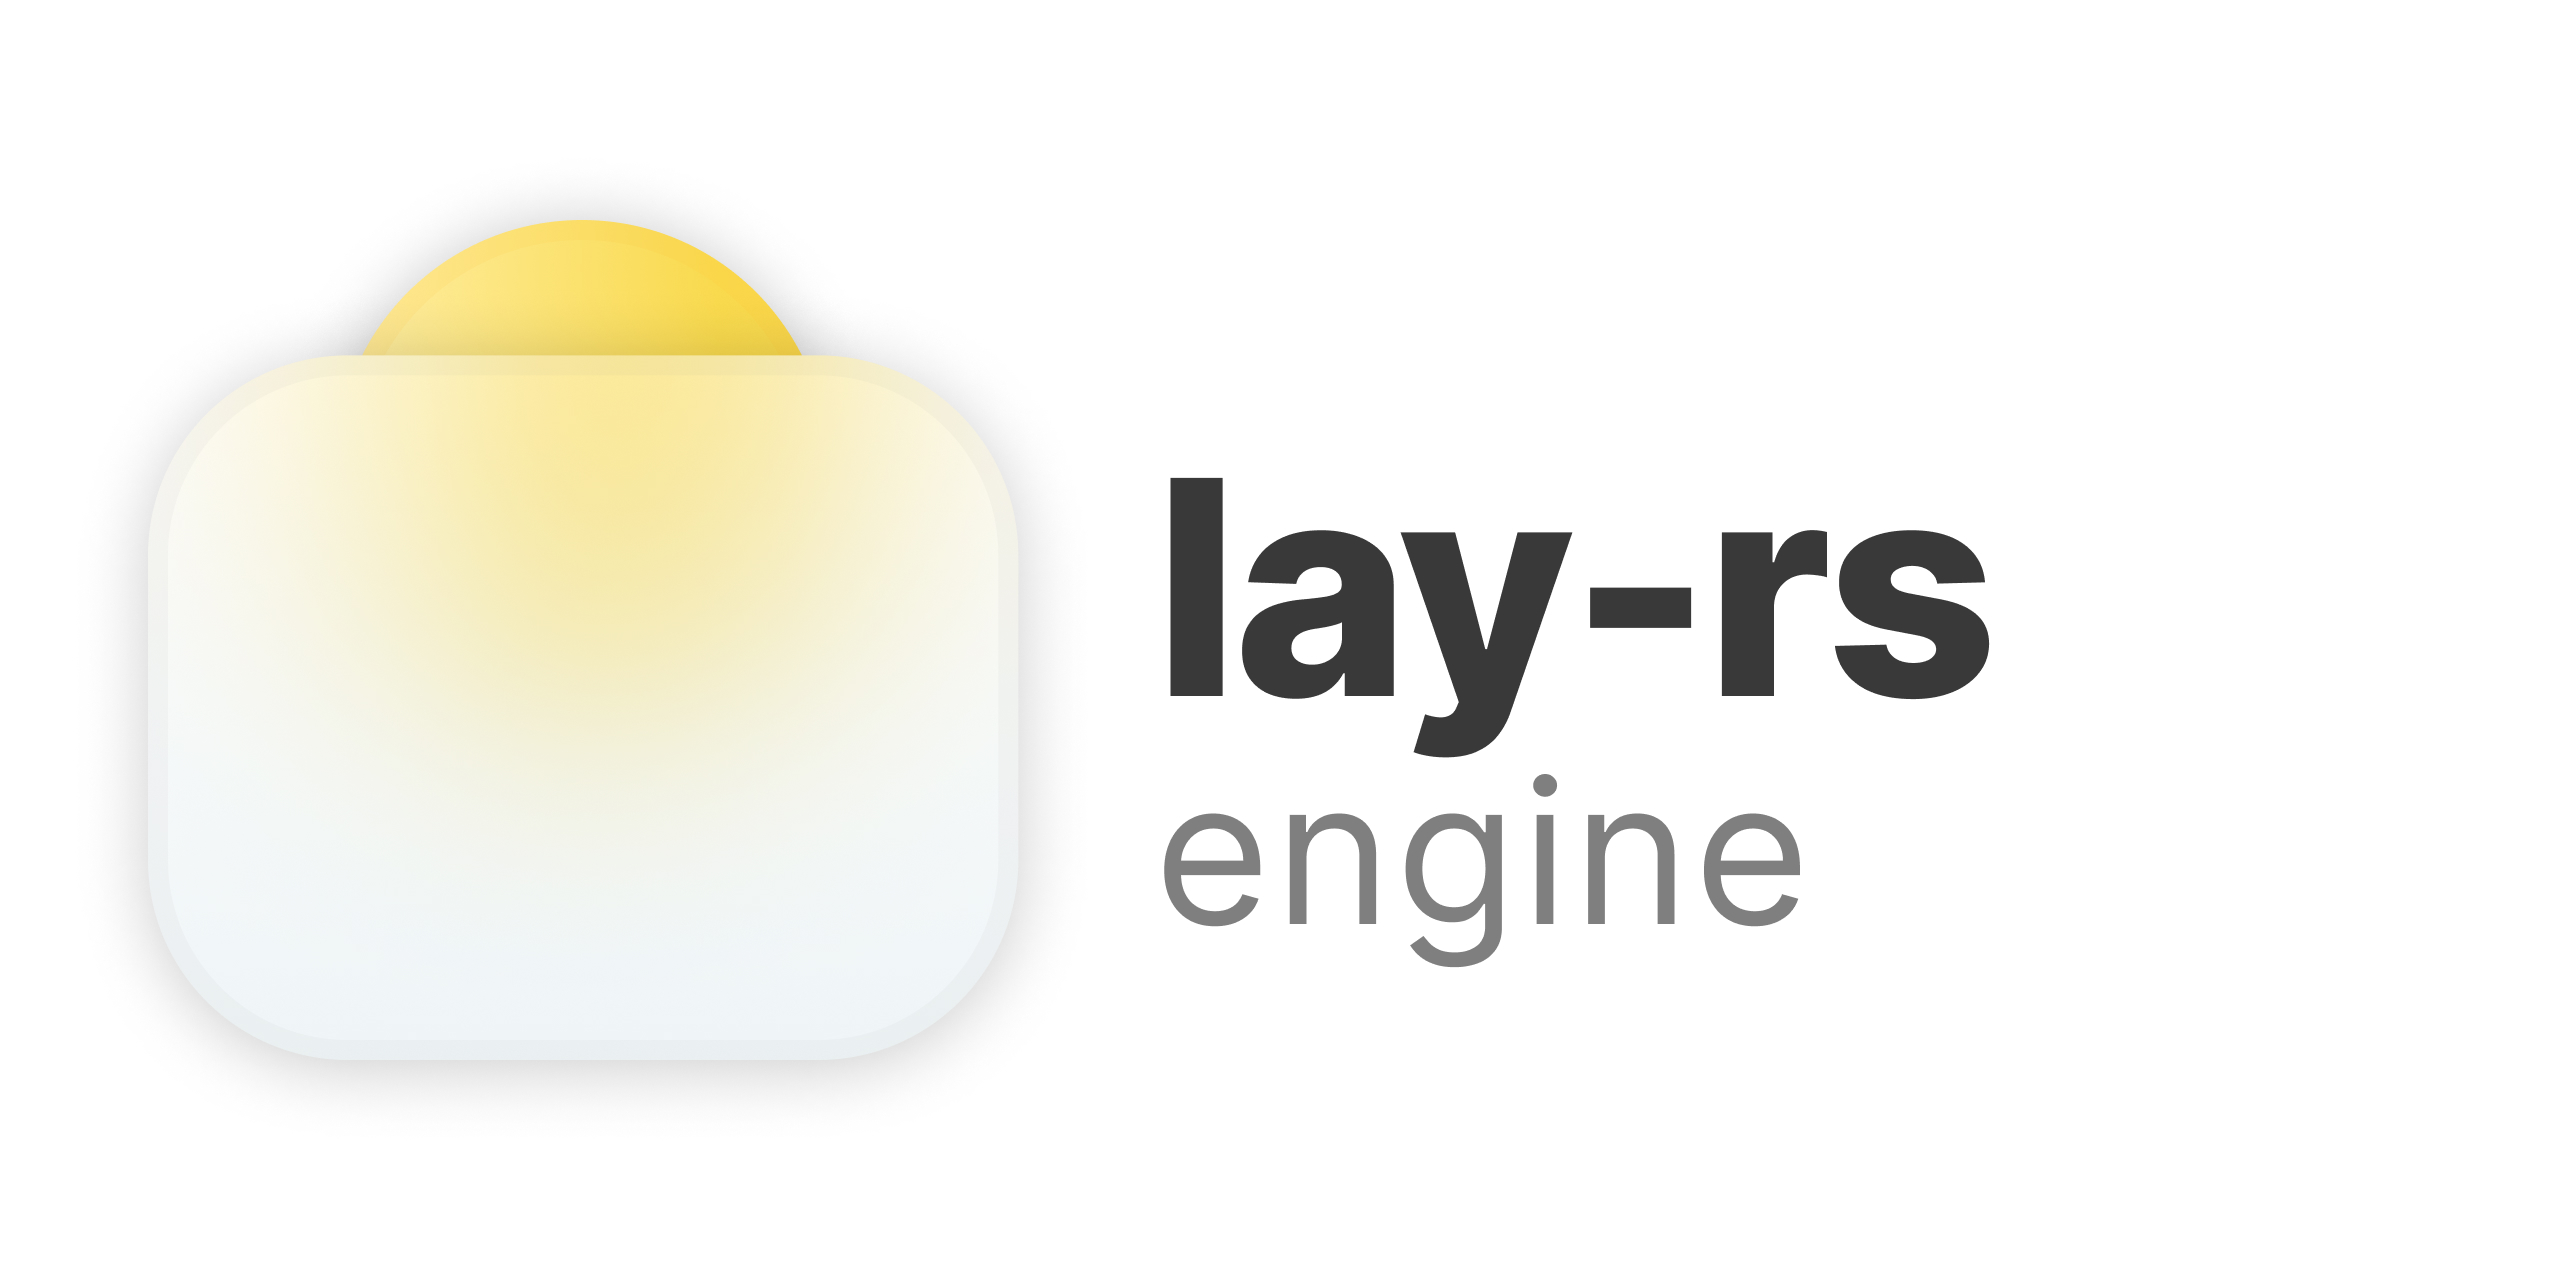
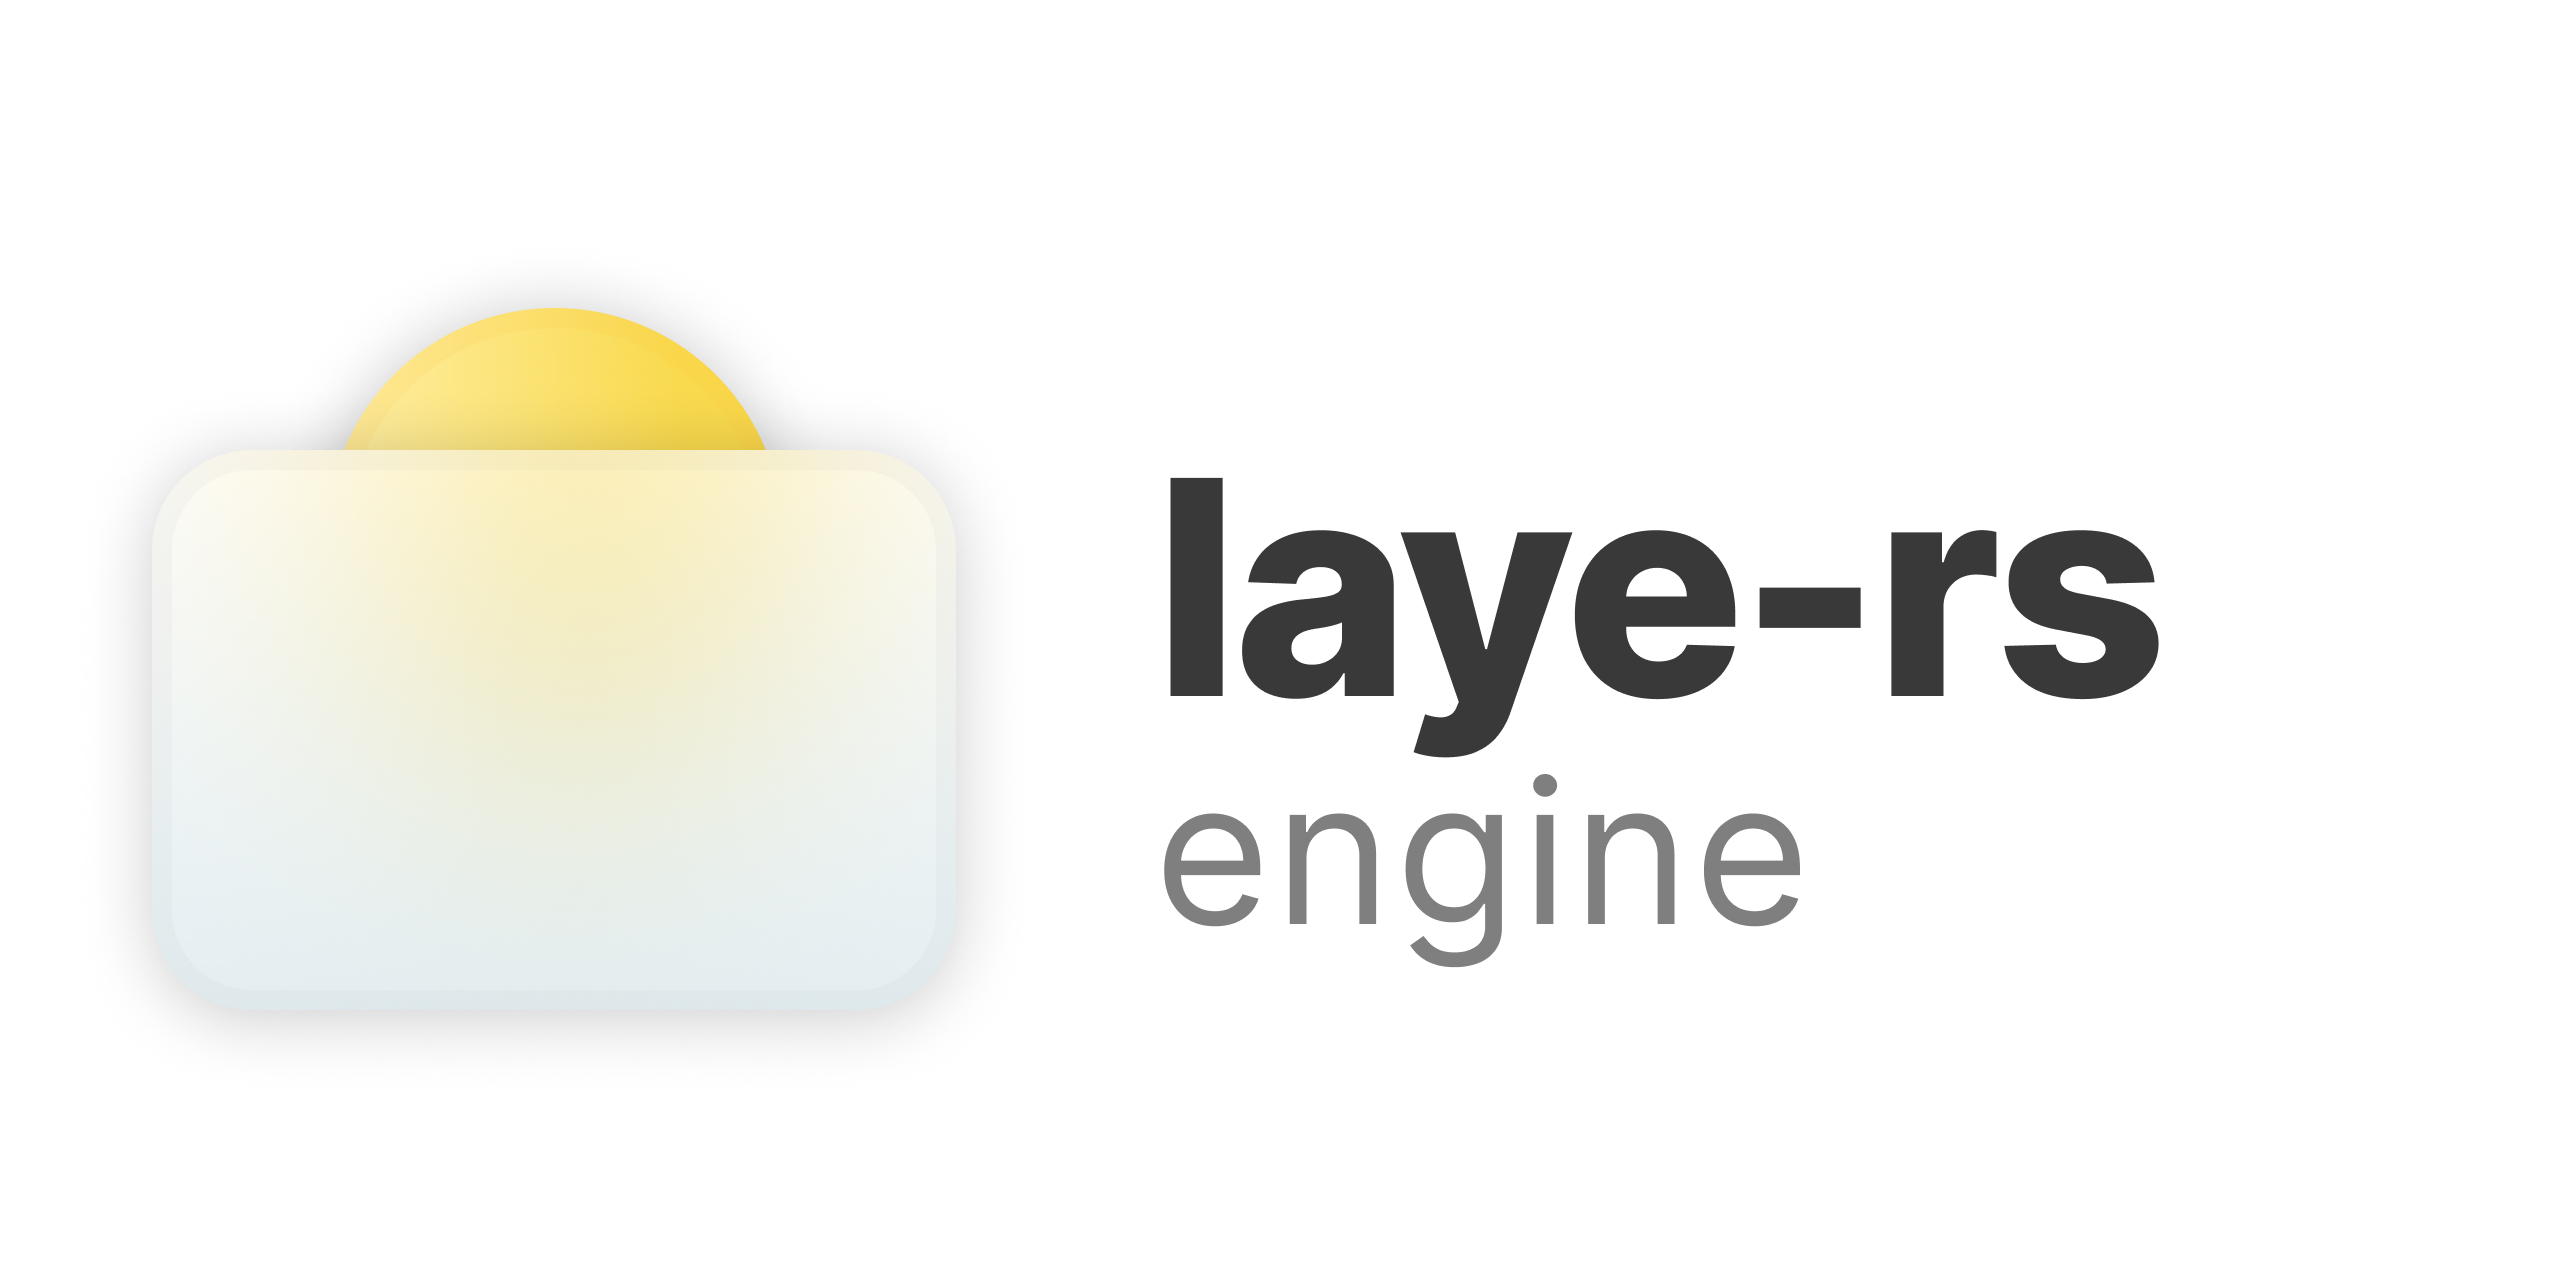
ci test

Changed region(s): [[0.0938, 0.1562, 0.4062, 0.4375], [0.5938, 0.4062, 0.8438, 0.5625]]

diff --git a/README.md b/README.md
@@ -1,6 +1,6 @@
 
 <p align="center">
-  <img src="https://github.com/nongio/layers/blob/main/assets/lay-rs.jpg?raw=true" alt="Layers Engine Logo" width="384" height="192">
+  <img src="https://github.com/nongio/layers/blob/main/assets/laye-rs.jpg?raw=true" alt="Layers Engine Logo" width="384" height="192">
 </p>
 
 ## laye-rs engine
@@ -9,7 +9,7 @@
 
 
 
-laye-rs is a rendering engine for animated user interfaces, mainly designed in support of the ScreenComposer [project](https://github.com/nongio/screencomposer).
+laye-rs is a rendering engine for animated user interfaces, mainly designed in support of the Otto compositor [project](https://github.com/nongio/otto).
 
 It uses a scene graph to render the nodes in retained mode, optmising the most common UI interpolations (opacity, 2d transformations, blending).
 Nodes of the scene graph are graphical layers like text or simple shapes like rectangles but can also be external textures.
